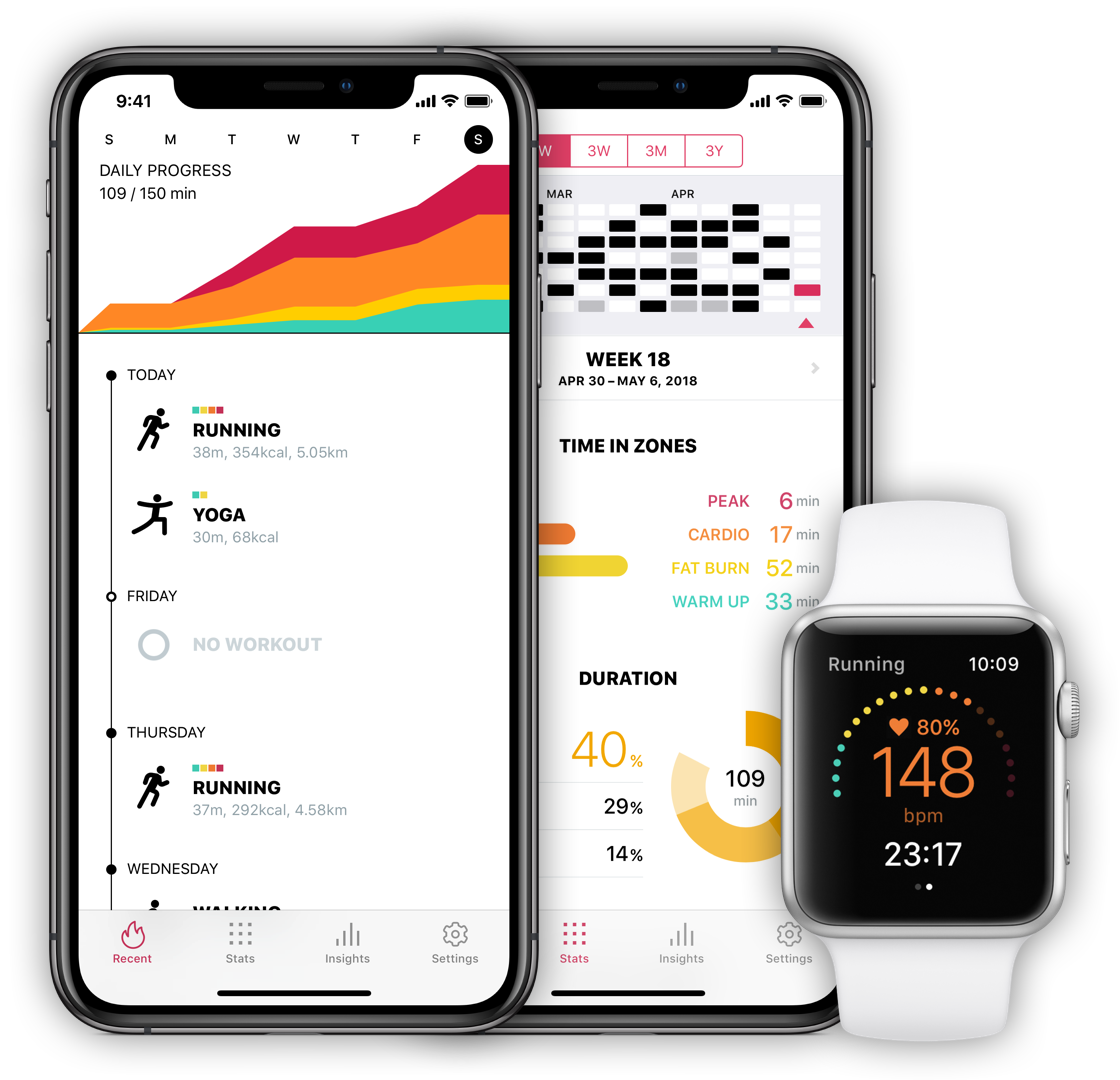
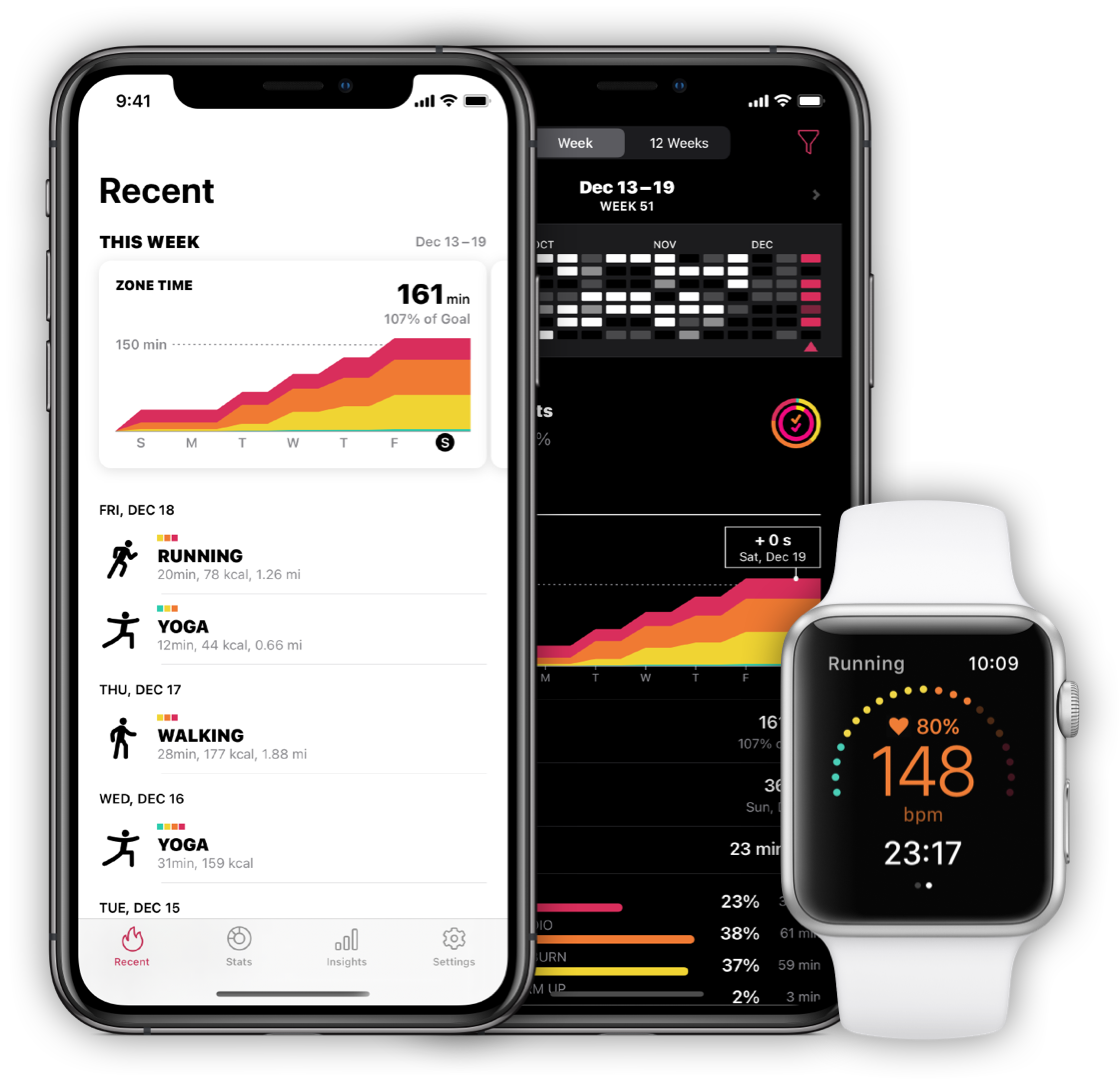
Zones: Change images and copies

diff --git a/zones/css/style.css b/zones/css/style.css
@@ -1,9 +1,9 @@
-@import url(https://fonts.googleapis.com/css?family=Maven+Pro:500,900);
+@import url('https://fonts.googleapis.com/css2?family=Montserrat:wght@800&display=swap');
 
 body {
 	margin: 0;
 	padding: 0;
-	font-family: 'Maven Pro', sans-serif;
+	font-family: "Helvetica Neue", Arial, "Hiragino Kaku Gothic ProN", "Hiragino Sans", Meiryo, sans-serif;
 	font-size: 16px;
 	color: #333;
 	background-color: #fefefe;
@@ -14,11 +14,11 @@ p {
 h1, h2, h3, h4 {
 	line-height: 1.2;
 }
-body.en h1,
-body.en h2,
+body h1,
+body h2,
 body.en h3,
 body.en h4 {
-	font-weight: bold;
+	font-family: 'Montserrat', sans-serif;
 }
 
 .content {
@@ -51,7 +51,7 @@ a:hover {
 .hero {
 	color: #fff;
 	background-color: #000000;
-	background-image: url('../img/bg3.jpg');
+	background-image: url('../img/bg1.jpg');
   background-position: 50% 50%;
   background-repeat: no-repeat;
 	background-attachment: fixed;
@@ -114,16 +114,12 @@ a:hover {
 	text-decoration: none;
 }
 .hero-text {
-	width: 480px;
-	float: left;
-	padding-top: 250px;
+	padding-top: 50px;
+	text-align: center;
 }
 .hero-img {
-	width: 450px;
-	float: right;
-	padding-left: 10px;
-	padding-top: 50px;
 	padding-bottom: 60px;
+	text-align: center;
 }
 .hero-text h1 {
 	margin: 0;

diff --git a/zones/index.html b/zones/index.html
@@ -30,15 +30,14 @@
 	</div>
 	<div class="content">
 		<div class="hero-text">
-			<h1><img src="img/logo.svg" alt="Zones" width="160" height="88"></h1>
+			<h1>Zones</h1>
 			<p><img src="../img/badge_bestof2016.png" alt="Best Of 2016 App Store" width="186" height="26"></p>
-			<p class="hero-copy">Monitor real-time heart rate and exercise intensity during workouts!<br>
-				Now available for iPhone and Apple Watch.</p>
+			<p class="hero-copy">Monitor real-time heart-rate zones and <br>exercise intensity during workouts!</p>
 			<p class="hero-store">
 				<a href="https://itunes.apple.com/app/id1139688415?mt=8" target="itunes_store"><img src="../img/btn_appstore.svg" alt="Download on the App Store"></a></p>
 		</div>
 		<div class="hero-img">
-			<img src="img/main.png" alt="Zones for iPhone and Apple Watch" width="450" height="550">
+			<img src="../img/appimg_zones.png" alt="Zones for iPhone and Apple Watch" width="570" height="550">
 		</div>
 	</div><!-- content -->
 </div><!-- hero -->

diff --git a/ja/zones/index.html b/ja/zones/index.html
@@ -30,16 +30,15 @@
 	</div>
 	<div class="content">
 		<div class="hero-text">
-			<h1><img src="../../zones/img/logo.svg" alt="Zones" width="160" height="88"></h1>
+			<h1>Zones</h1>
 			<p><img src="../../img/badge_bestof2016.png" alt="Best Of 2016 App Store" width="186" height="26"></p>
 			<p class="hero-copy">運動中、リアルタイムで運動強度、心拍ゾーンが見える！<br>
 				Zonesで効率的トレーニングを。</p>
-				<p>For iPhone & Apple Watch</p>
 			<p class="hero-store">
 				<a href="https://itunes.apple.com/jp/app/id1139688415?mt=8" target="itunes_store"><img src="../../img/btn_appstore_JP.svg" alt="App Storeからダウンロード"></a></p>
 		</div>
 		<div class="hero-img">
-			<img src="../../zones/img/main.png" alt="Zones for iPhone and Apple Watch" width="450" height="550">
+			<img src="../../img/appimg_zones_ja.png" alt="Zones for iPhone and Apple Watch" width="570" height="550">
 		</div>
 	</div><!-- content -->
 </div><!-- hero -->

diff --git a/index.html b/index.html
@@ -44,7 +44,7 @@
 		<div class="app-text">
 			<h2>Zones</h2>
 			<p><img src="img/badge_bestof2016.png" alt="Best Of 2016 App Store" width="186" height="26"></p>
-			<p>Training with exercise intensity<br />for iPhone and Apple Watch</p>
+			<p>Heart rate zone tracking & visualizing app<br />for iPhone and Apple Watch</p>
 			<p><a href="zones/" class="btn btn-app"><i class="fa fa-arrow-right" aria-hidden="true"></i> More</a></p>
 		</div>
 		<div class="app-image">

diff --git a/ja/index.html b/ja/index.html
@@ -49,7 +49,7 @@
 			<p><a href="zones/" class="btn btn-app"><i class="fa fa-arrow-right" aria-hidden="true"></i> More</a></p>
 		</div>
 		<div class="app-image">
-			<p><img src="../img/appimg_zones.png" alt="Zones" width="560" height="auto"></p>
+			<p><img src="../img/appimg_zones_ja.png" alt="Zones" width="560" height="auto"></p>
 		</div>
 	</div>
 	<br class="clearfix">
